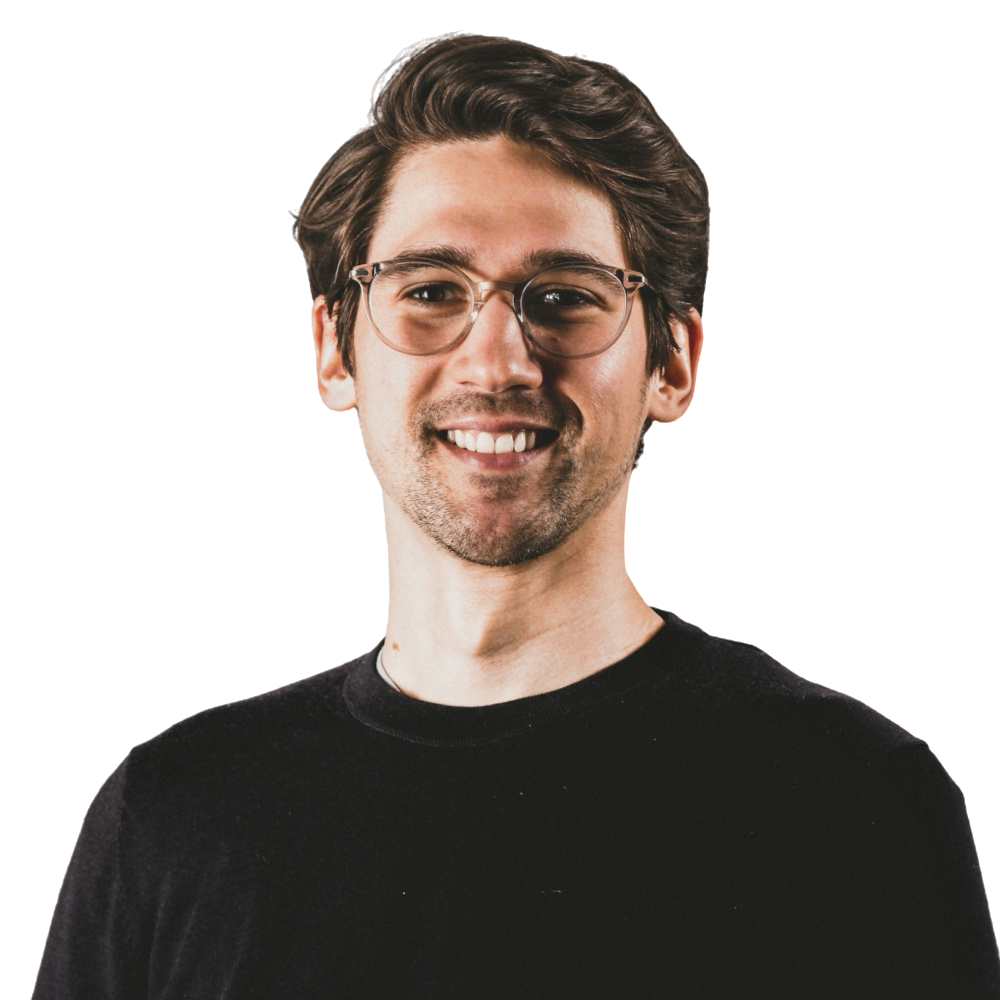
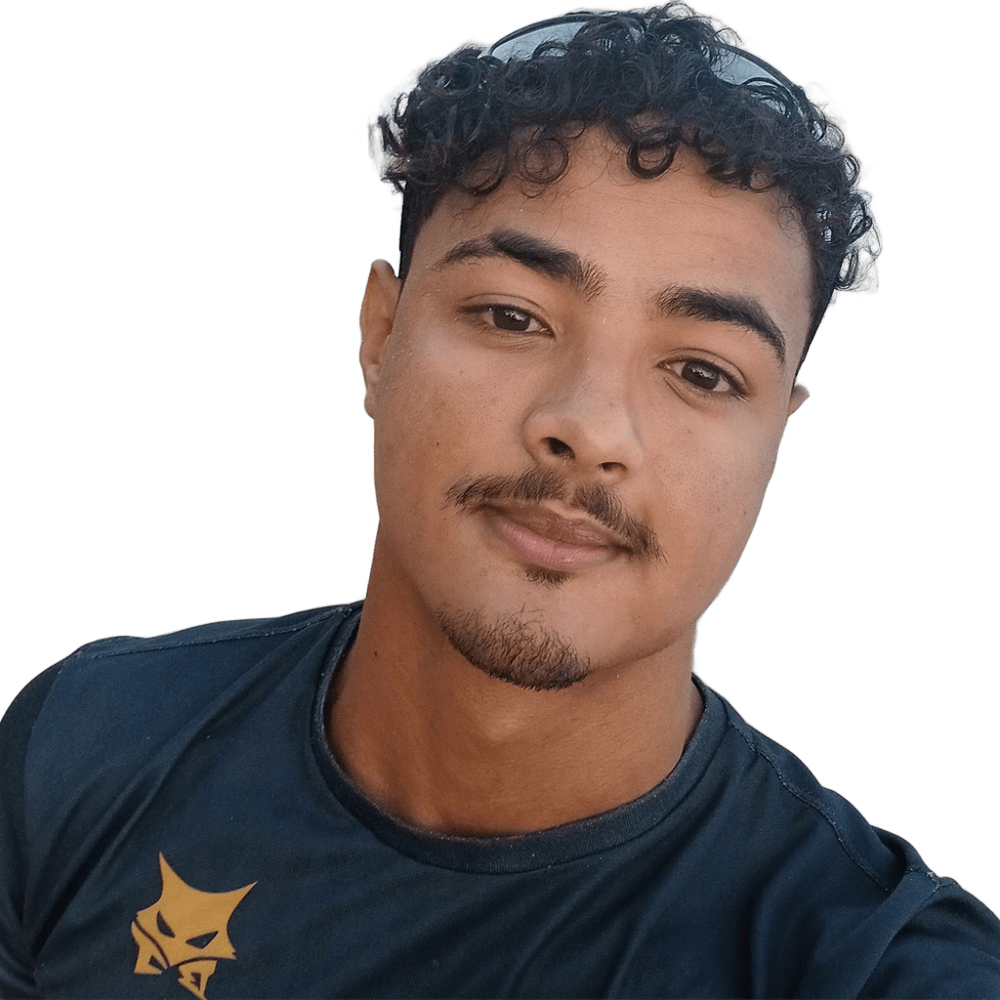
Sessão home adicionada

diff --git a/index.html b/index.html
@@ -59,7 +59,45 @@
     <!--=============== MAIN ===============-->
     <main class="main">
       <!--=============== HOME ===============-->
-      <section class="home section" id="home"></section>
+      <section class="home section" id="home">
+        <div class="home-container container grid">
+          <div class="home-data">
+            <h1 class="home-tittle">Henrique Freitas</h1>
+            <h3 class="home-job">I'm a Backend Developer</h3>
+
+            <p class="home-description">I don't know the text yet.</p>
+
+            <a href="#" class="button">My works</a>
+          </div>
+          <div class="home-img-wrapper">
+            <img src="assets/img/profile.png" alt="" class="home-img" />
+          </div>
+          <div class="home-social grid">
+            <a
+              href="https://www.linkedin.com/in/louishb7/"
+              target="_blank"
+              class="home-social-link"
+            >
+              <i class="ri-linkedin-fill"></i>
+            </a>
+
+            <a
+              href="https://instagram.com/"
+              target="_blank"
+              class="home-social-link"
+            >
+              <i class="ri-instagram-line"></i>
+            </a>
+            <a
+              href="https://github.com/louishb7"
+              target="_blank"
+              class="home-social-link"
+            >
+              <i class="ri-github-fill"></i>
+            </a>
+          </div>
+        </div>
+      </section>
 
       <!--=============== ABOUT ===============-->
       <section class="about section" id="about"></section>

diff --git a/assets/css/styles.css b/assets/css/styles.css
@@ -123,6 +123,10 @@ img {
   padding-inline: 1.25rem;
 }
 
+.grid {
+  display: grid;
+}
+
 /*=============== HEADER & NAV ===============*/
 
 .header {
@@ -168,6 +172,24 @@ img {
   font-weight: var(--font-medium);
   transition: color 0.3s;
 }
+
+.nav-link:hover {
+  color: var(--first-color);
+}
+
+.change-theme {
+  font-size: 1.25rem;
+}
+
+.nav-btns {
+  align-items: center;
+  column-gap: 1rem;
+}
+
+.nav-close,
+.nav-toggle {
+  display: none;
+}
 /* Active link */
 
 /* Change background header */
@@ -175,6 +197,16 @@ img {
 /*=============== MAIN ===============*/
 
 /*=============== HOME ===============*/
+.home-container {
+  grid-template-columns: 1fr repeat(2, max-content);
+  align-items: center;
+  column-gap: 3rem;
+  padding-top: 6rem;
+}
+
+.home-img-wrapper {
+  width: 38rem;
+}
 
 /*=============== ABOUT ===============*/
 
